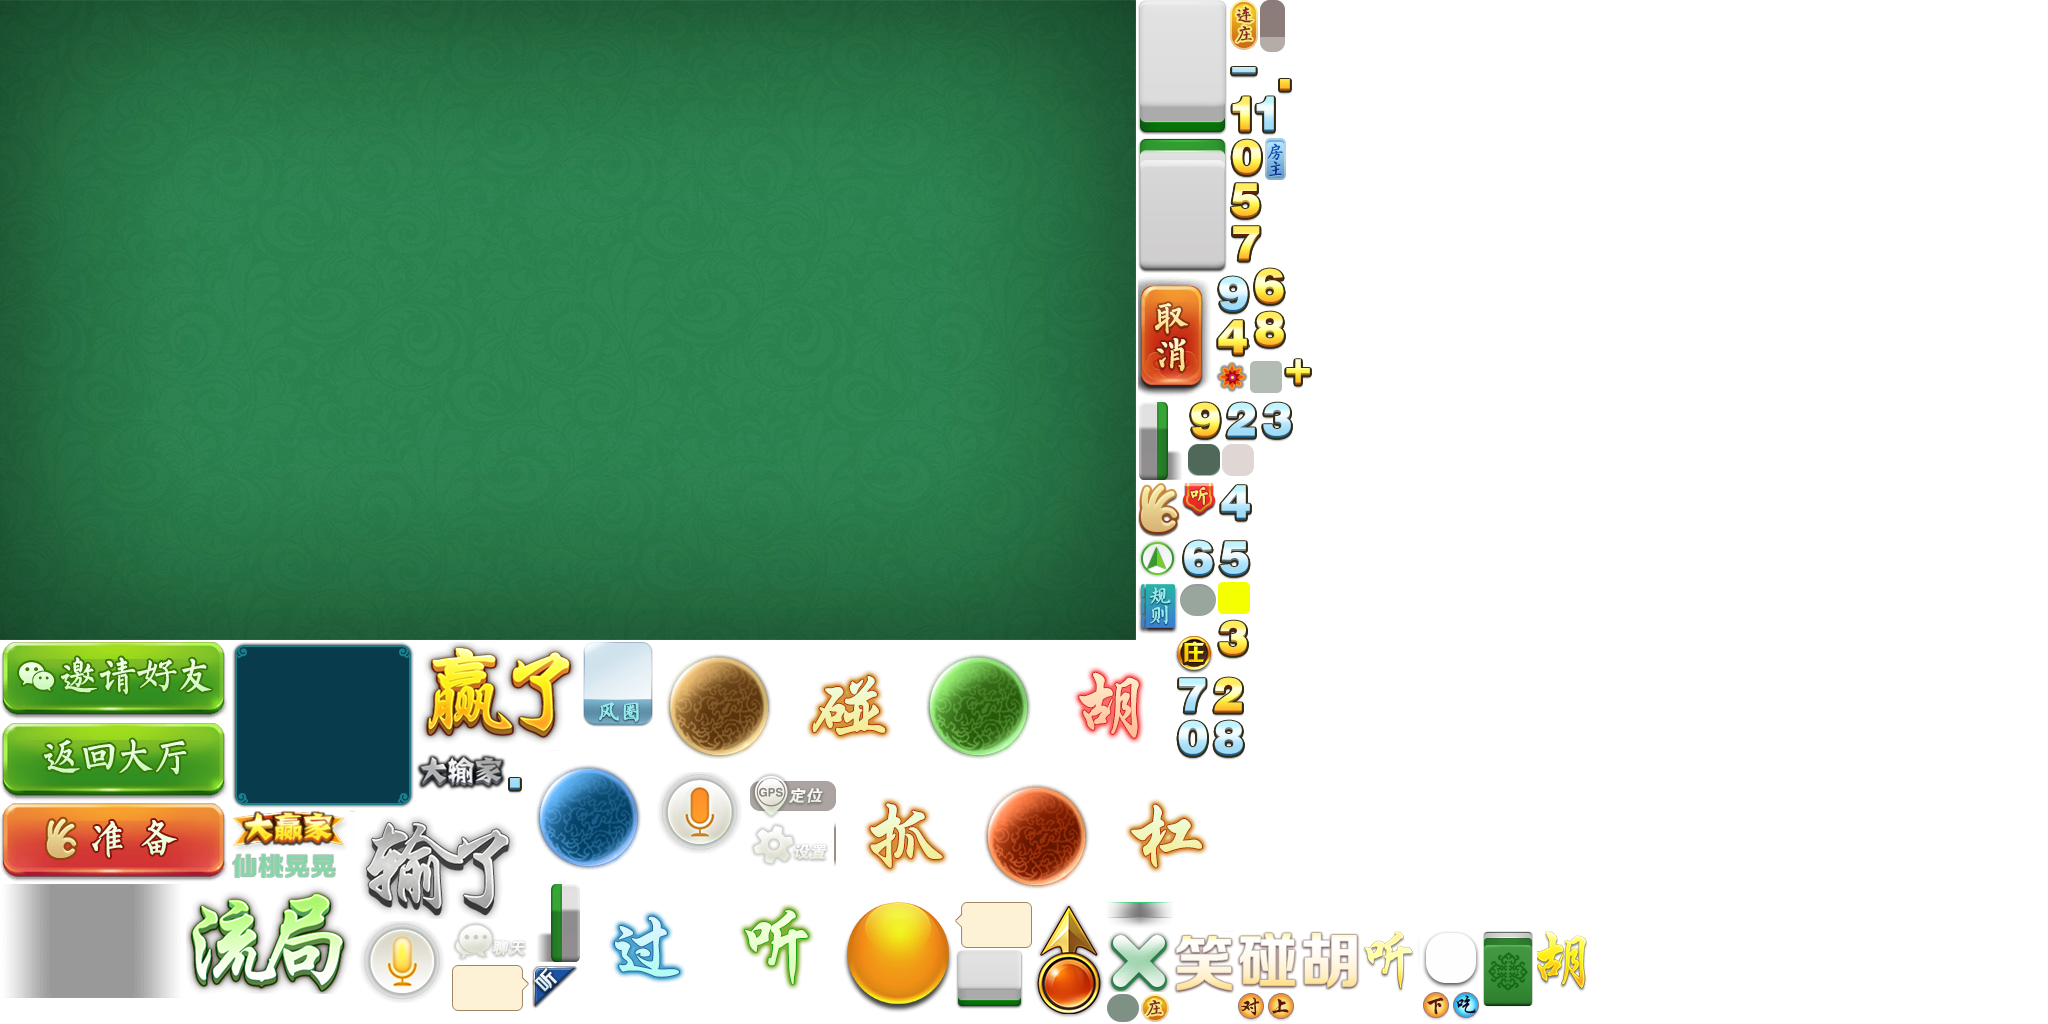
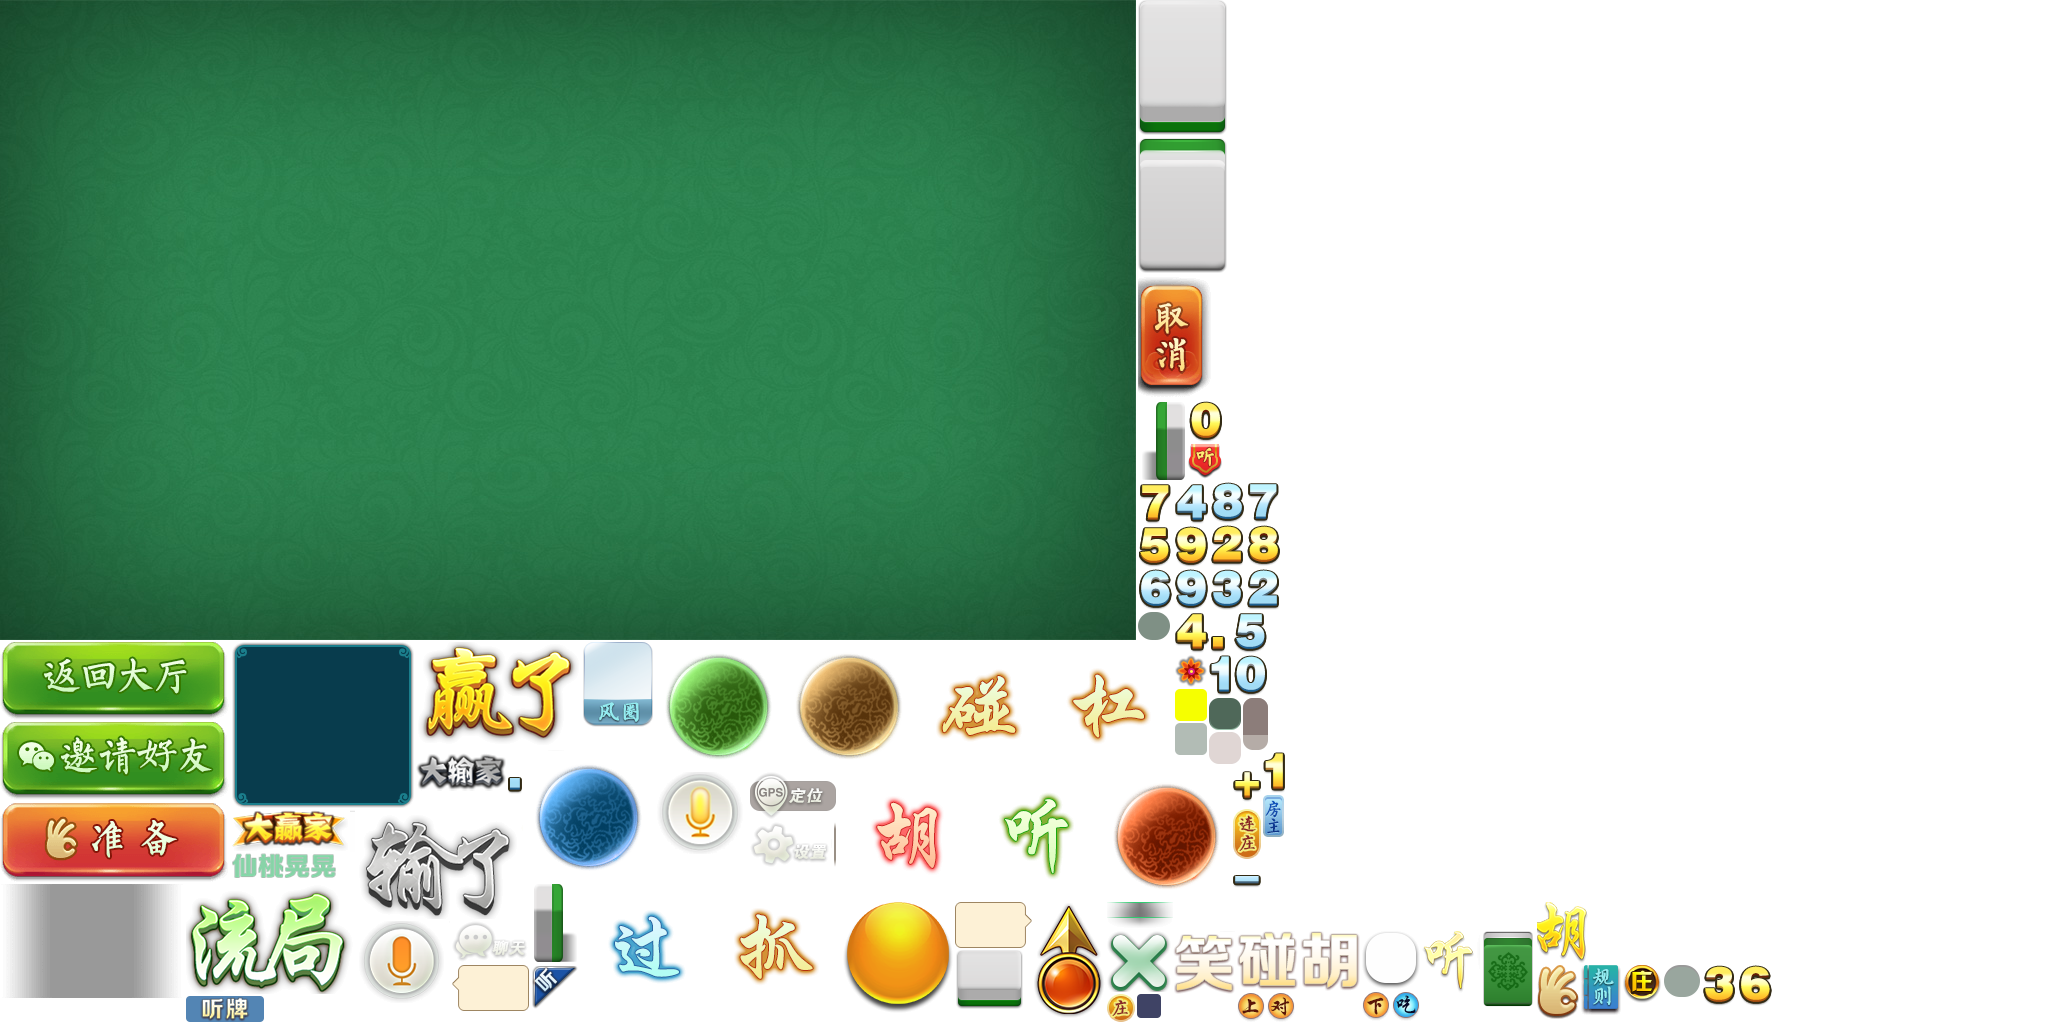
听牌修改

diff --git a/assets/Script/modules/gameb/Player.ts b/assets/Script/modules/gameb/Player.ts
@@ -48,7 +48,6 @@ export class Player {
     public tilesHand: number[];
     public isRichi: boolean;
     public tileCountInHand: number;
-    public totalScores: number;
     public playerView: PlayerView;
     //设置一个标志，表示已经点击了动作按钮（吃碰杠胡过）
     public waitSkip: boolean;
@@ -64,7 +63,7 @@ export class Player {
     public cancelZiMo: boolean = false; //弃自摸
     public isCanPong: boolean = false; //可以碰
     public mBSaveZCHFlag: boolean = false; //可以捉铳
-    public mScore: number = 0;
+    public totalScores: number = 0;
     public mNick: string = "";
     // private flagsTing: boolean;
     public constructor(userID: string, chairID: number, host: RoomInterface) {
@@ -381,7 +380,7 @@ export class Player {
         this.state = playerInfo.status;
         this.playerInfo = new PlayerInfo(playerInfo, chairID);
         if (this.playerInfo.scoreTotal !== null) {
-            this.mScore = this.playerInfo.scoreTotal;
+            this.totalScores = this.playerInfo.scoreTotal;
         }
 
         let nick = this.playerInfo.nick;
@@ -573,10 +572,10 @@ export class Player {
             const buf = protoHH.casino_xtsj.packet_cs_op_req.encode(req2);
             this.host.sendActionMsg(buf, protoHH.casino_xtsj.eXTSJ_MSG_TYPE.XTSJ_MSG_CS_OP_REQ);
         } else {
-            if (curCancelType !== -1 && curCancelCard !== 0) {
-                const buf = protoHH.casino_xtsj.packet_cs_op_req.encode(req2);
-                this.host.sendActionMsg(buf, protoHH.casino_xtsj.eXTSJ_MSG_TYPE.XTSJ_MSG_CS_OP_REQ);
-            }
+            // if (curCancelType !== -1 && curCancelCard !== 0) {
+            const buf = protoHH.casino_xtsj.packet_cs_op_req.encode(req2);
+            this.host.sendActionMsg(buf, protoHH.casino_xtsj.eXTSJ_MSG_TYPE.XTSJ_MSG_CS_OP_REQ);
+            // }
         }
         if (str === "") {
             str = `弃自摸`;

diff --git a/assets/Script/modules/gameb/RoomView.ts b/assets/Script/modules/gameb/RoomView.ts
@@ -229,7 +229,7 @@ export class RoomView {
         // this.arrowObj.visible = true;
     }
     public showTingDataView(list: TingPai[]): void {
-        Logger.debug("显示听 列表 ", list);
+        // Logger.debug("显示听 列表 ", list);
         if (list.length <= 0) {
             this.listensObj.visible = false;
 
@@ -237,19 +237,19 @@ export class RoomView {
         }
         const len = list.length;
         this.listensDataList = list;
-        let width = 290;
-        let height = 110;
-        if (len <= 2) {
-            width = 150;
-        } else if (len > 4) {
-            height = 230;
-        }
-        this.listensObjList.setSize(width, height);
+        // let width = 290;
+        // let height = 110;
+        // if (len <= 2) {
+        //     width = 150;
+        // } else if (len > 4) {
+        //     height = 230;
+        // }
+        // this.listensObjList.setSize(width, height);
         let nCount = 0;
         for (const d of list) {
             nCount = nCount + d.num;
         }
-        this.listensObjNum.text = `${nCount}张`;
+        this.listensObjNum.text = `${nCount}`;
         this.listensObjList.numItems = len;
         this.listensObj.visible = true;
     }
@@ -554,8 +554,11 @@ export class RoomView {
         const tingPai = this.listensDataList[index];
         const t = obj.getChild("n1").asCom;
         const num = obj.getChild("num");
-        num.text = `${tingPai.num}张`;
+        num.text = `${tingPai.num}`;
         TileImageMounter.mountTileImage(t, tingPai.card);
+        if (tingPai.card === this.room.laiziID) {
+            t.getChild("laiziMask").visible = true;
+        }
     }
 
     //面子牌选择面板

diff --git a/assets/Script/modules/gameb/handlers/HandlerMsgTableScore.ts b/assets/Script/modules/gameb/handlers/HandlerMsgTableScore.ts
@@ -12,6 +12,7 @@ export namespace HandlerMsgTableScore {
     const showHu = async (reply: proto.casino.packet_table_score, room: RoomInterface): Promise<void> => {
 
         for (const score of reply.scores) {
+            const player = <Player>room.getPlayerByUserID(`${score.data.id}`);
             if (score.hupai_card > 0) {
                 let huType = eXTSJ_OP_TYPE.XTSJ_OP_TYPE_RUANMO;
                 const opscores = score.opscores;
@@ -28,8 +29,11 @@ export namespace HandlerMsgTableScore {
                     }
                 }
                 //播放动画
-                const player = <Player>room.getPlayerByUserID(`${score.data.id}`);
                 await player.exposedResultAnimation(huType, true);
+            }
+            //保存分数
+            if (score.score_total !== null) {
+                player.totalScores = score.score_total;
             }
         }
 

diff --git a/assets/Script/modules/gameb/PlayerView.ts b/assets/Script/modules/gameb/PlayerView.ts
@@ -844,9 +844,9 @@ export class PlayerView {
             this.showOwner();
             //开始玩之后 不显示名字 显示分数
             if (this.viewChairID === 1) {
-                this.head.nameText.text = `${this.player.mNick}:${this.player.mScore}`;
+                this.head.nameText.text = `${this.player.mNick}:${this.player.totalScores}`;
             } else {
-                this.head.nameText.text = `${this.player.mScore}`;
+                this.head.nameText.text = `${this.player.totalScores}`;
             }
         };
 

diff --git a/assets/Script/modules/gameb/Room.ts b/assets/Script/modules/gameb/Room.ts
@@ -753,6 +753,9 @@ export class Room {
         let total = 0;
         const tingMahjong = [];
         for (const checkMahjong of checkMahjongs) {
+            if (tingP.length > 8) {
+                return tingP;
+            }
             const bHuPai = this.mAlgorithm.canHuPai_WithOther(array, checkMahjong, true);
             if (bHuPai.length > 0) {
                 //检查牌剩余数量

diff --git a/assets/Script/modules/gameb/PlayerInterface.ts b/assets/Script/modules/gameb/PlayerInterface.ts
@@ -53,7 +53,7 @@ export enum TypeOfOP {
  */
 export interface PlayerInterface {
     readonly chairID: number;
-    mScore: number;
+    totalScores: number;
     mNick: string;
     readyHandList: number[];
     waitSkip: boolean;
